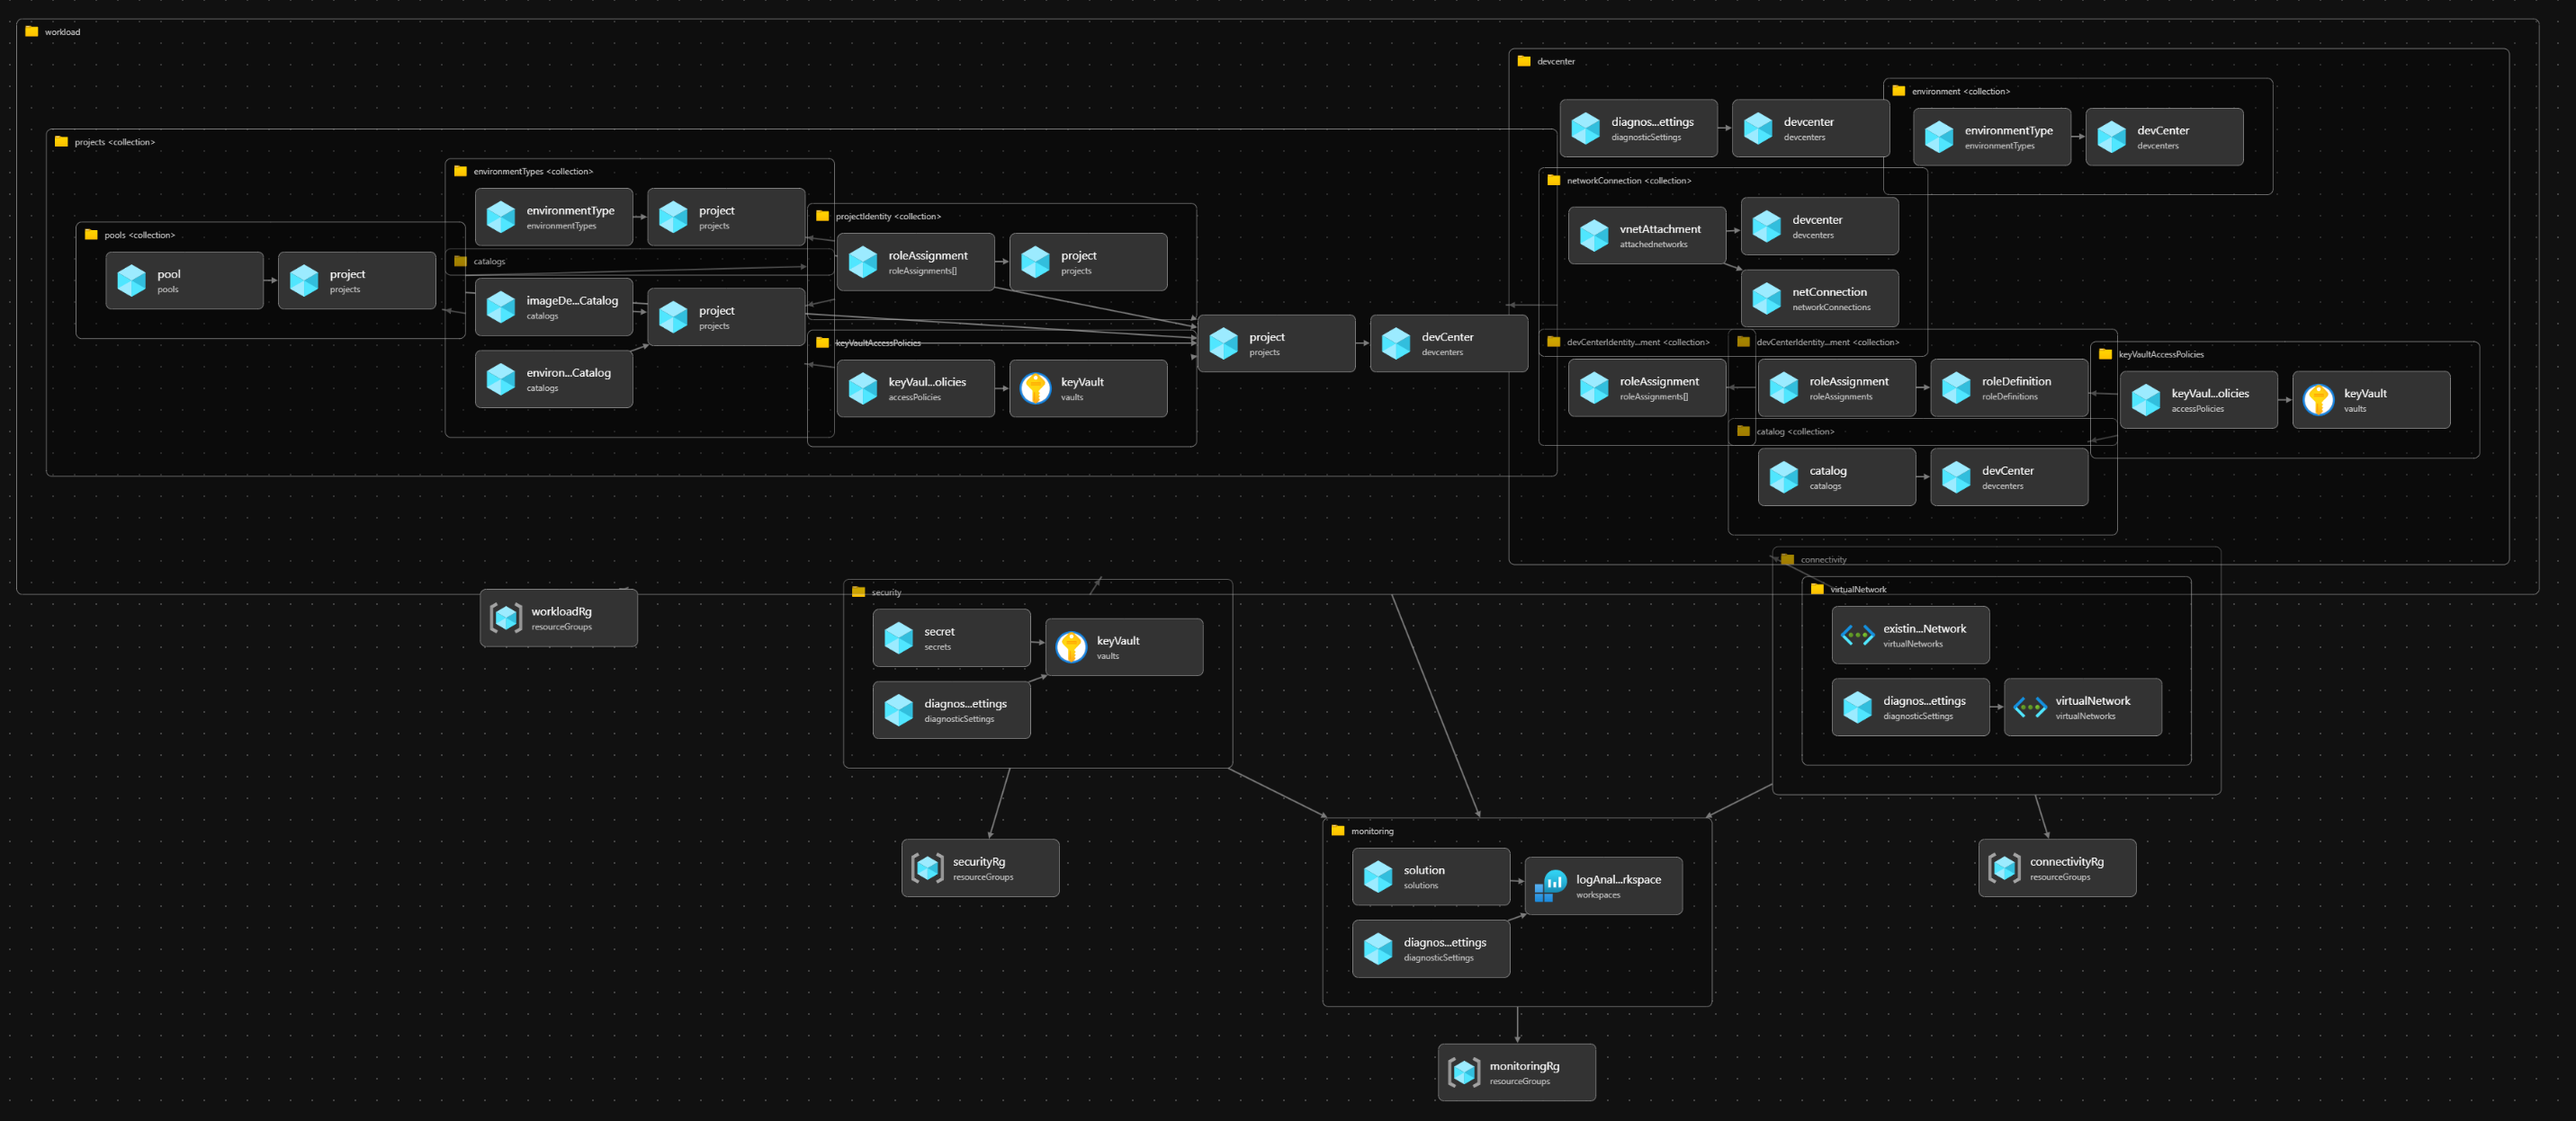
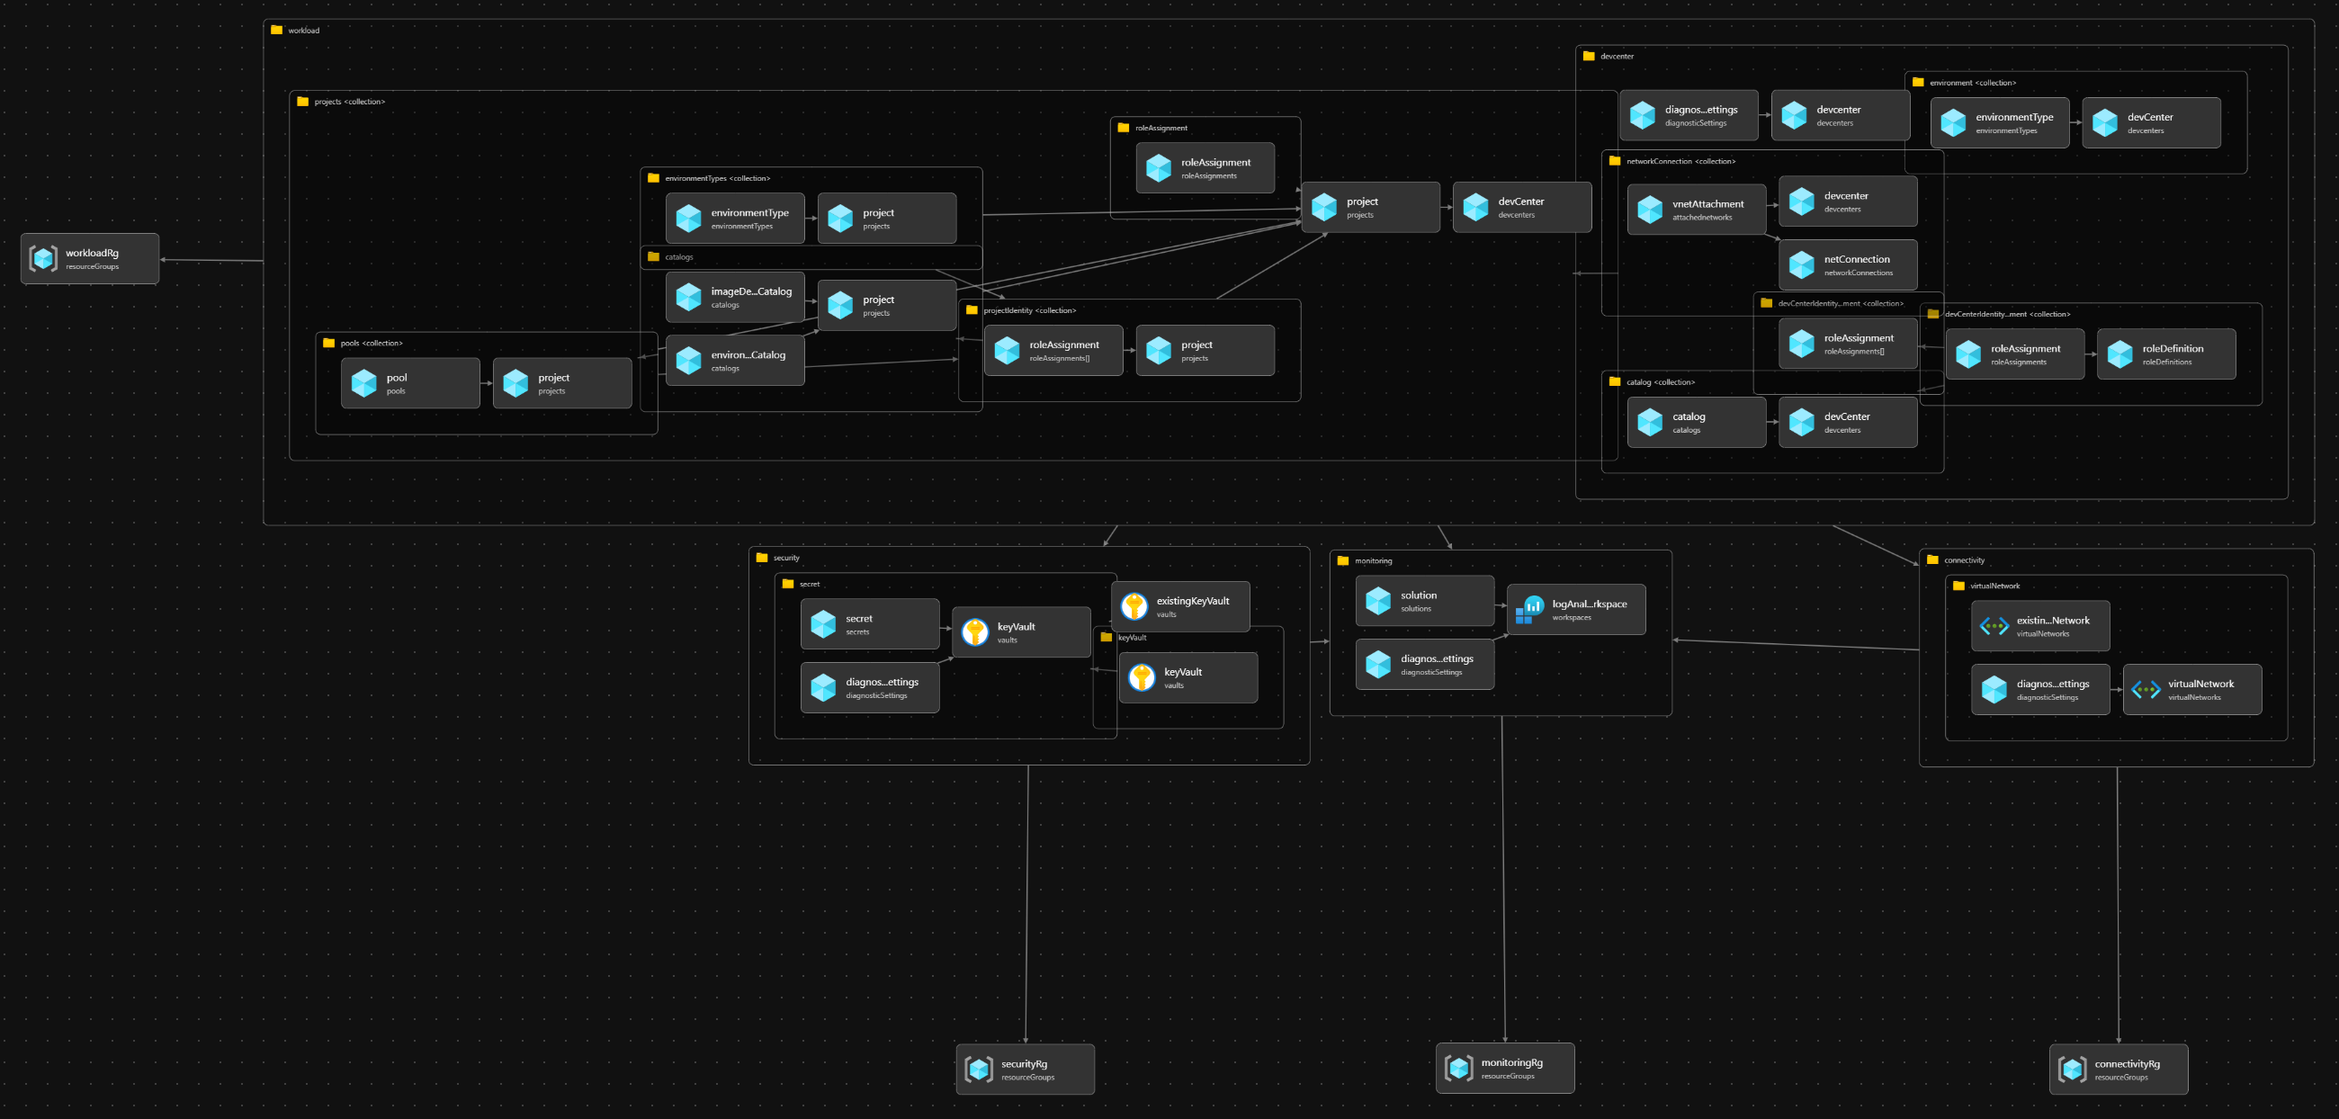
new bicep visualization images

diff --git a/content/en/docs/configureResources/security/security-settings.md b/content/en/docs/configureResources/security/security-settings.md
@@ -20,6 +20,7 @@ This document provides detailed security configuration information for the Dev B
 
 ## Table of Contents
 
+- [Security Components](#security-components)
 - [Configuration Purpose](#configuration-purpose)
 - [Default Configuration](#default-configuration)
 - [Configuration Structure](#configuration-structure)
@@ -31,6 +32,10 @@ This document provides detailed security configuration information for the Dev B
 - [Best Practices](#best-practices)
 - [Considerations](#considerations)
 - [Additional Resources](#additional-resources)
+
+## Security Components
+
+![Security Components](security.png)
 
 ## Configuration Purpose
 

diff --git a/content/en/docs/configureResources/workload/workload-settings.md b/content/en/docs/configureResources/workload/workload-settings.md
@@ -21,6 +21,7 @@ This documentation provides a comprehensive explanation of the Dev Box accelerat
 
 ## Table of Contents
 
+- [Workload Components](#workload-components)
 - [Configuration Purpose](#configuration-purpose)
 - [Default Configuration](#default-configuration)
 - [Core Settings](#core-settings)
@@ -42,6 +43,10 @@ This documentation provides a comprehensive explanation of the Dev Box accelerat
 - [Resource Tagging](#resource-tagging)
 - [Best Practices](#best-practices)
 - [References](#references)
+
+## Workload Components
+
+![Workload Components](workload.png)
 
 ## Configuration Purpose
 

diff --git a/content/en/docs/configureResources/connectivity/connectivity-settings.md b/content/en/docs/configureResources/connectivity/connectivity-settings.md
@@ -21,6 +21,7 @@ This documentation details the network configuration for Dev Box accelerator. Th
 
 ## Table of Contents
 
+- [Connectivity Components](#connectivity-components)
 - [Configuration Purpose](#configuration-purpose)
 - [Default Settings](#default-settings)
 - [Network Creation](#network-creation)
@@ -35,6 +36,10 @@ This documentation details the network configuration for Dev Box accelerator. Th
   - [Management](#management)
   - [Security](#security)
 - [References](#references)
+
+## Connectivity Components
+
+![Connectivity Components](connectivity.png)
 
 ## Configuration Purpose
 
